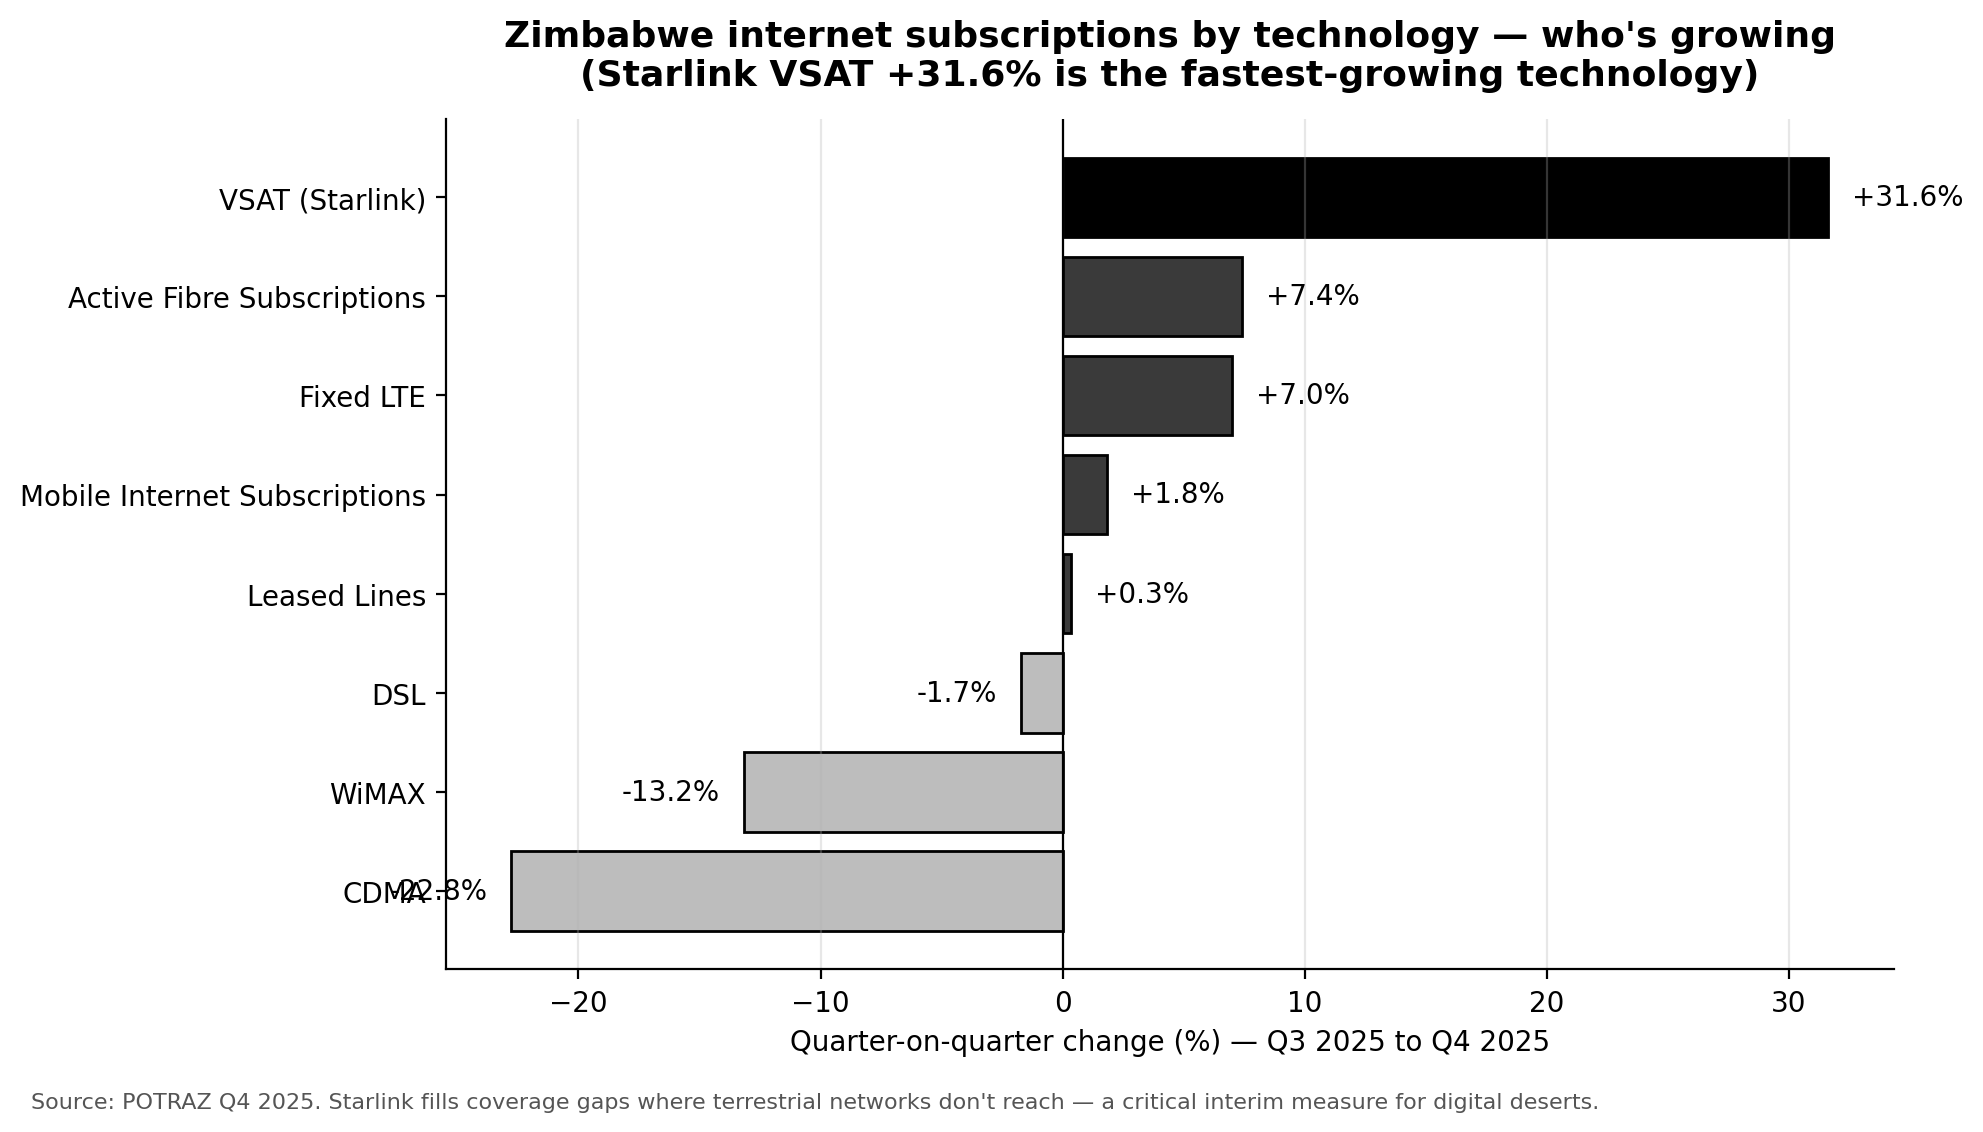
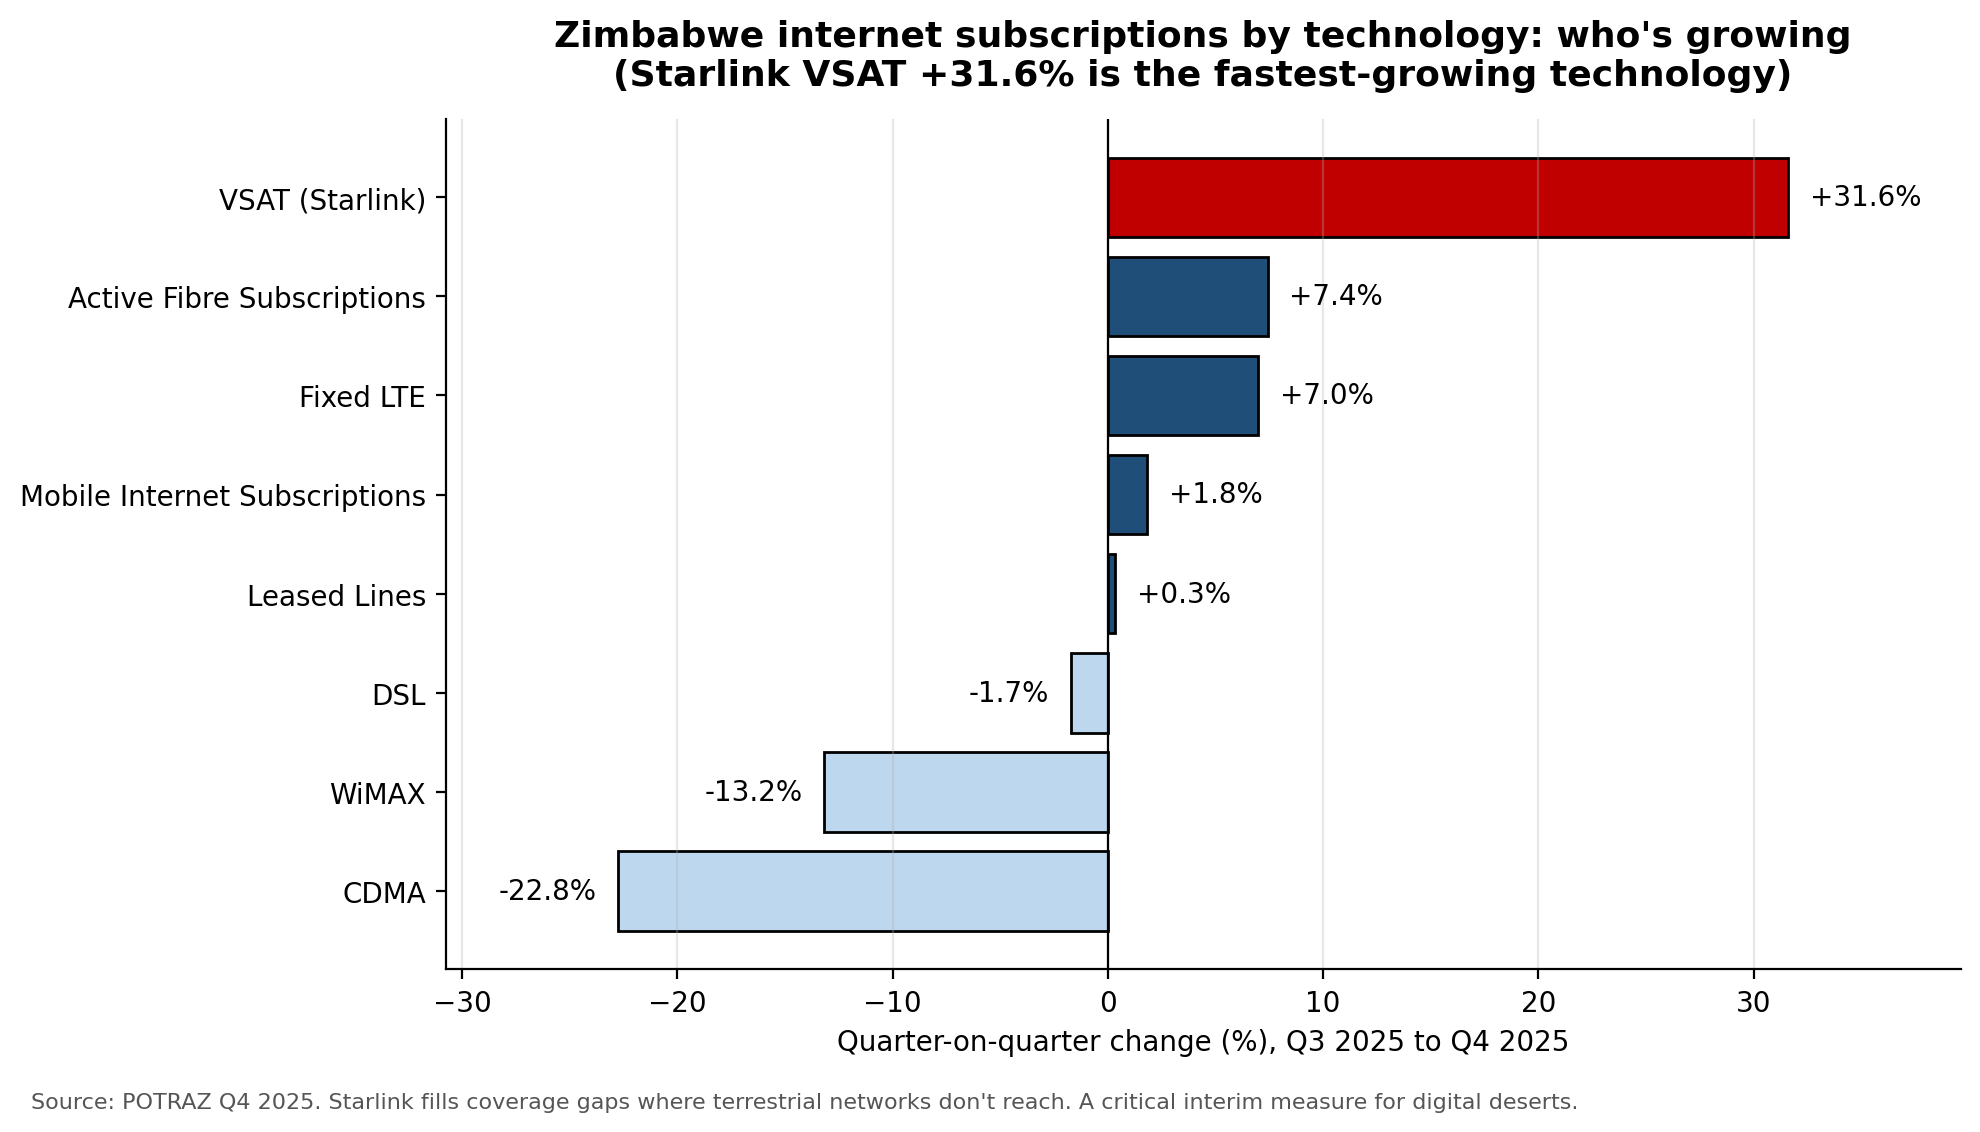
Switch the chart palette to the presentation theme
The figures were still in the grayscale we'd used for the printed report,
which looked flat dropped into the slide deck. Recoloured every chart to the
deck palette - navy with a red highlight for Zimbabwe, gold and ice-blue for
the other pillars - cleaned the overlapping district labels off the tile
maps, and added a matching ETL diagram (gen_etl_diagram.py) so the pipeline
slide stops saying 66 districts and shows the real 91.

diff --git a/src/make_figures_zwe.py b/src/make_figures_zwe.py
@@ -22,10 +22,10 @@ IN_DIR  = Path("data/processed")
 OUT_DIR = Path("outputs/figures")
 OUT_DIR.mkdir(parents=True, exist_ok=True)
 
-# Grayscale palette for black-and-white print: urban dark, rural medium.
-URBAN_COLOR = "#3a3a3a"
-RURAL_COLOR = "#8c8c8c"
-ACCENT      = "#7F7F7F"
+# PowerPoint deck theme palette: urban navy, rural accent red.
+URBAN_COLOR = "#1F4E79"
+RURAL_COLOR = "#C00000"
+ACCENT      = "#C00000"
 
 
 # === Figure 1: Rural vs Urban population coverage by technology ============
@@ -59,7 +59,7 @@ ax.set_xticks(x)
 ax.set_xticklabels(techs, fontsize=11)
 ax.set_ylabel("Population coverage (%)")
 ax.set_ylim(0, 115)
-ax.set_title("Zimbabwe — population coverage by technology, rural vs urban\n"
+ax.set_title("Zimbabwe population coverage by technology: rural vs urban\n"
              "(POTRAZ Q4 2025)", fontsize=13, fontweight="bold", pad=12)
 ax.legend(loc="upper right", frameon=False)
 ax.spines[["top", "right"]].set_visible(False)
@@ -98,7 +98,7 @@ for i, (u, r) in enumerate(zip(urban, rural)):
 ax.set_xticks(x)
 ax.set_xticklabels(operators, fontsize=11)
 ax.set_ylabel("Number of base stations")
-ax.set_title("Zimbabwe — mobile base stations by operator and area\n"
+ax.set_title("Zimbabwe mobile base stations by operator and area\n"
              "(POTRAZ Q4 2025: 64% of all base stations are in urban areas)",
              fontsize=13, fontweight="bold", pad=12)
 ax.legend(loc="upper right", frameon=False)
@@ -122,13 +122,14 @@ tech_no_total = tech[tech["technology"] != "Total"].copy()
 tech_no_total = tech_no_total.sort_values("change_pct", ascending=True)
 
 fig, ax = plt.subplots(figsize=(10, 5.5))
-colors = ["#bdbdbd" if c < 0 else "#3a3a3a" for c in tech_no_total["change_pct"]]
-# Highlight Starlink/VSAT in solid black so it stands out in B&W
+colors = ["#BDD7EE" if c < 0 else "#1F4E79" for c in tech_no_total["change_pct"]]
+# Highlight Starlink/VSAT in accent red so it stands out
 labels = tech_no_total["technology"].tolist()
-colors = ["#000000" if "VSAT" in t or "Starlink" in t else c
+colors = ["#C00000" if "VSAT" in t or "Starlink" in t else c
           for t, c in zip(labels, colors)]
 
 bars = ax.barh(labels, tech_no_total["change_pct"], color=colors, edgecolor="black")
+ax.set_xlim(min(tech_no_total["change_pct"]) - 8, max(tech_no_total["change_pct"]) + 8)
 for bar, val in zip(bars, tech_no_total["change_pct"]):
     offset = 1 if val >= 0 else -1
     ha = "left" if val >= 0 else "right"
@@ -136,8 +137,8 @@ for bar, val in zip(bars, tech_no_total["change_pct"]):
             f"{val:+.1f}%", va="center", ha=ha, fontsize=10)
 
 ax.axvline(0, color="black", linewidth=0.8)
-ax.set_xlabel("Quarter-on-quarter change (%) — Q3 2025 to Q4 2025")
-ax.set_title("Zimbabwe internet subscriptions by technology — who's growing\n"
+ax.set_xlabel("Quarter-on-quarter change (%), Q3 2025 to Q4 2025")
+ax.set_title("Zimbabwe internet subscriptions by technology: who's growing\n"
              "(Starlink VSAT +31.6% is the fastest-growing technology)",
              fontsize=13, fontweight="bold", pad=12)
 ax.spines[["top", "right"]].set_visible(False)
@@ -145,7 +146,7 @@ ax.grid(axis="x", alpha=0.3)
 
 fig.text(0.02, -0.02,
          "Source: POTRAZ Q4 2025. Starlink fills coverage gaps where terrestrial networks "
-         "don't reach — a critical interim measure for digital deserts.",
+         "don't reach. A critical interim measure for digital deserts.",
          fontsize=8, color="#555555")
 
 fig.tight_layout()

diff --git a/src/gen_etl_diagram.py b/src/gen_etl_diagram.py
@@ -1,0 +1,95 @@
+"""
+Generate a themed ETL pipeline diagram for the slide deck.
+
+Run:
+    python src/gen_etl_diagram.py
+
+Output:
+    outputs/figures/etl_pipeline.png
+"""
+from pathlib import Path
+import matplotlib
+matplotlib.use("Agg")
+import matplotlib.pyplot as plt
+from matplotlib.patches import FancyBboxPatch, FancyArrowPatch
+
+OUT_DIR = Path("outputs/figures")
+OUT_DIR.mkdir(parents=True, exist_ok=True)
+
+NAVY = "#1F4E79"
+MIDBLUE = "#2E74B5"
+RED = "#C00000"
+GREY = "#6B7280"
+
+fig, ax = plt.subplots(figsize=(13, 6.2))
+ax.set_xlim(0, 13)
+ax.set_ylim(0, 6.2)
+ax.axis("off")
+
+
+def box(x, y, w, h, text, color, fs=11, tc="white"):
+    ax.add_patch(FancyBboxPatch(
+        (x, y), w, h, boxstyle="round,pad=0.02,rounding_size=0.12",
+        linewidth=0, facecolor=color))
+    ax.text(x + w / 2, y + h / 2, text, ha="center", va="center",
+            color=tc, fontsize=fs, fontweight="bold", linespacing=1.3)
+
+
+def arrow(x1, y1, x2, y2):
+    ax.add_patch(FancyArrowPatch(
+        (x1, y1), (x2, y2), arrowstyle="-|>", mutation_scale=18,
+        linewidth=2.2, color=GREY))
+
+
+# Column headers
+ax.text(1.95, 5.95, "DATA SOURCES", ha="center", fontsize=14, fontweight="bold", color=NAVY)
+ax.text(6.5, 5.95, "PROCESSING", ha="center", fontsize=14, fontweight="bold", color=MIDBLUE)
+ax.text(11.0, 5.95, "OUTPUTS", ha="center", fontsize=14, fontweight="bold", color=RED)
+
+# Source boxes
+sources = [
+    "ITU DataHub\n(7 CSVs)",
+    "World Bank\n(25 indicators)",
+    "POTRAZ Q4 2025\n(7 tables)",
+    "ZimStat Census\n(91 districts)",
+    "OpenCellID\n(8,587 towers)",
+]
+sy = [4.75, 3.75, 2.75, 1.75, 0.75]
+for t, y in zip(sources, sy):
+    box(0.4, y, 3.1, 0.78, t, NAVY, fs=10.5)
+
+# Processing boxes
+proc = [
+    ("extract_*.py\nclean & standardise", 4.55),
+    ("compute_ddi.py\n4-pillar DDI", 2.65),
+    ("build_district_table.py\nCensus + GADM join", 0.95),
+]
+for t, y in proc:
+    box(5.0, y, 3.0, 0.95, t, MIDBLUE, fs=10.5)
+
+# Output boxes
+outs = [
+    ("DDI country ranking\n6 SADC countries", 4.55),
+    ("District DDI\n91 districts, real pop", 2.65),
+    ("7 themed charts\n+ 12 policy actions", 0.95),
+]
+for t, y in outs:
+    box(9.5, y, 3.1, 0.95, t, RED, fs=10.5)
+
+# Arrows sources -> processing (fan into the middle compute box, staggered endpoints)
+import numpy as np
+targets = np.linspace(3.45, 2.85, len(sy))
+for y, ty in zip(sy, targets):
+    arrow(3.55, y + 0.39, 4.95, ty)
+# processing chain -> outputs
+arrow(8.05, 5.02, 9.45, 5.02)
+arrow(8.05, 3.12, 9.45, 3.12)
+arrow(8.05, 1.42, 9.45, 1.42)
+
+ax.text(6.5, 0.12, "Orchestrated by run_all.py   .   single-command reproducibility",
+        ha="center", fontsize=11, style="italic", color=GREY)
+
+fig.savefig(OUT_DIR / "etl_pipeline.png", dpi=200, bbox_inches="tight",
+            facecolor="white")
+plt.close(fig)
+print("Wrote", OUT_DIR / "etl_pipeline.png")

diff --git a/src/make_figures.py b/src/make_figures.py
@@ -28,14 +28,14 @@ IN_DIR  = Path("data/processed")
 OUT_DIR = Path("outputs/figures")
 OUT_DIR.mkdir(parents=True, exist_ok=True)
 
-# Grayscale palette for black-and-white print.
-ZIM_COLOR  = "#000000"   # Zimbabwe highlighted in solid black
-PEER_COLOR = "#9e9e9e"   # Peers in light grey
+# PowerPoint deck theme palette (navy primary, red accent).
+ZIM_COLOR  = "#C00000"   # Zimbabwe highlighted in accent red
+PEER_COLOR = "#1F4E79"   # Peers in deck navy
 PILLAR_COLORS = {
-    "coverage_gap":      "#1a1a1a",   # near-black
-    "adoption_gap":      "#595959",   # dark grey
-    "affordability_gap": "#8c8c8c",   # mid grey
-    "electricity_gap":   "#c4c4c4",   # light grey
+    "coverage_gap":      "#C00000",   # accent red
+    "adoption_gap":      "#1F4E79",   # deck navy
+    "affordability_gap": "#FFC000",   # gold
+    "electricity_gap":   "#8FAADC",   # ice blue
 }
 PILLAR_LABELS = {
     "coverage_gap":      "Coverage gap",
@@ -62,8 +62,8 @@ for bar, val in zip(bars, plot_df["ddi"]):
     ax.text(val + 1, bar.get_y() + bar.get_height() / 2,
             f"{val:.0f}", va="center", fontsize=10)
 
-ax.set_xlabel("Digital Desert Index (0–100, higher = more excluded)")
-ax.set_title("Digital Desert Index — Zimbabwe vs SADC peers", fontsize=13, fontweight="bold", pad=12)
+ax.set_xlabel("Digital Desert Index (0 to 100, higher = more excluded)")
+ax.set_title("Digital Desert Index: Zimbabwe vs SADC peers", fontsize=13, fontweight="bold", pad=12)
 ax.set_xlim(0, max(plot_df["ddi"]) * 1.15)
 ax.spines[["top", "right"]].set_visible(False)
 ax.grid(axis="x", alpha=0.3)
@@ -101,8 +101,8 @@ for i, pillar in enumerate(pillars):
 
 ax.set_xticks(x)
 ax.set_xticklabels(country_names, rotation=0, fontsize=10)
-ax.set_ylabel("Pillar score (0–100, higher = worse)")
-ax.set_title("DDI pillar breakdown — what's driving each country's score",
+ax.set_ylabel("Pillar score (0 to 100, higher = worse)")
+ax.set_title("DDI pillar breakdown: what's driving each country's score",
              fontsize=13, fontweight="bold", pad=12)
 ax.set_ylim(0, 100)
 ax.legend(loc="upper right", frameon=False, ncol=2)

diff --git a/src/make_district_map.py b/src/make_district_map.py
@@ -72,13 +72,6 @@ districts.plot(
 provs = districts.dissolve(by="province")
 provs.boundary.plot(ax=ax, color="#333333", linewidth=0.9)
 
-# Annotate worst districts
-worst = districts.sort_values("ddi", ascending=False).head(5)
-for _, r in worst.iterrows():
-    pt = r["geometry"].representative_point()
-    ax.annotate(r["district_name"], xy=(pt.x, pt.y),
-                fontsize=7, ha="center", va="center", color="white", weight="bold")
-
 ax.set_title("Zimbabwe — Digital Desert Index by district\n"
              "Pilot version using urban/rural classification + national indicators",
              fontsize=13, fontweight="bold", pad=12)
